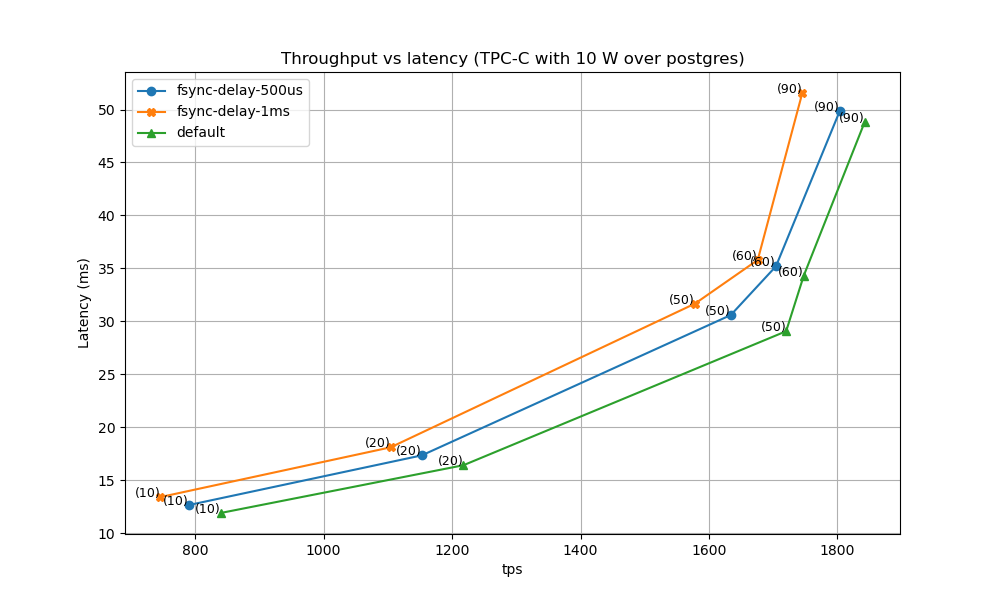
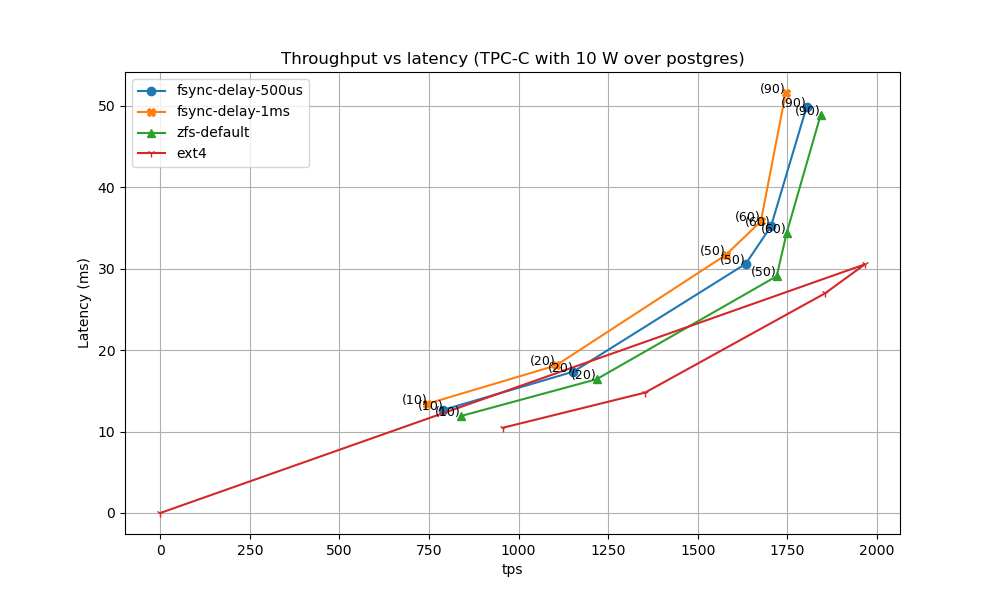
.

diff --git a/postgres-with-zfs-on-docker-27-02-2025-remote-client/lat-throughput.py b/postgres-with-zfs-on-docker-27-02-2025-remote-client/lat-throughput.py
@@ -54,6 +54,22 @@ throughput_default = [
     1842.54
 ]
 
+latency_ext4 = [
+    10.46, 
+    14.78,
+    26.96,
+    30.52,
+    0
+]
+
+throughput_ext4 = [
+    955.69,
+    1352.83,
+    1854.7,
+    1965.87,
+    0
+]
+
 clients = [
     10,
     20,
@@ -76,7 +92,9 @@ plt.figure(figsize=(10, 6))
 #plt.errorbar(latency, throughput, xerr=latency_error, yerr=throughput_error, fmt='o', ecolor='r', capsize=5)
 plt.plot(throughput_500us, latency_500us,  marker='o', label="fsync-delay-500us")
 plt.plot(throughput_1ms, latency_1ms, marker='X', label="fsync-delay-1ms")
-plt.plot( throughput_default, latency_default, marker='^', label="default")
+plt.plot( throughput_default, latency_default, marker='^', label="zfs-default")
+plt.plot( throughput_ext4, latency_ext4, marker='1', label="ext4")
+
 
 
 # Add text on top of the data points
